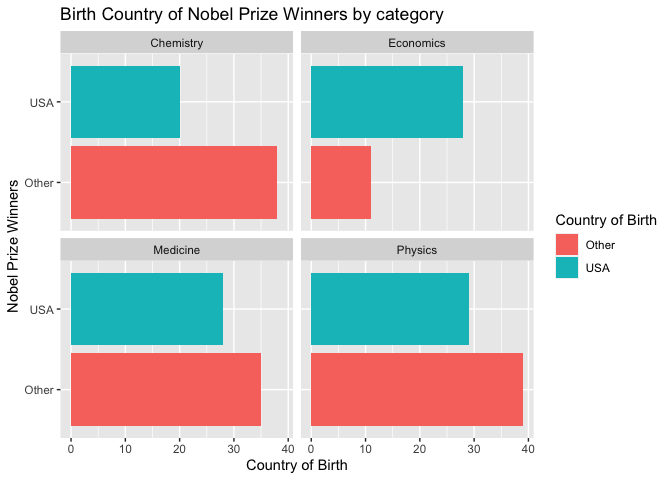
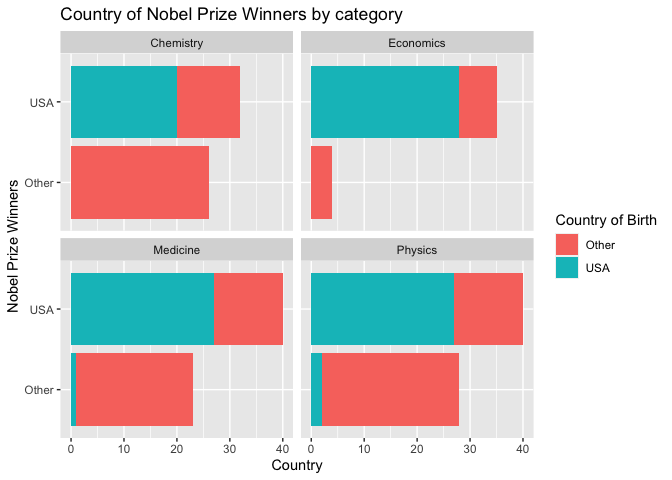
Updated graphs to show correct birth versus residence

diff --git a/lab-03.md b/lab-03.md
@@ -112,9 +112,13 @@ ggplot(nobel_living_science, aes(x = country_us, fill = country_us)) + geom_bar(
 nobel_living_science <- nobel_living %>%
   mutate(born_country_us = if_else(born_country == "USA", "USA", "Other")) 
 
-ggplot(nobel_living_science, aes(x = born_country_us, fill = born_country_us)) + geom_bar() + coord_flip() + labs( x = "Nobel Prize Winners", y = "Country of Birth", title = "Birth Country of Nobel Prize Winners by category", fill = "Country of Birth") + facet_wrap(~ category)
+#ggplot(nobel_living_science, aes(x = born_country_us, fill = born_country_us)) + geom_bar() + coord_flip() + labs( x = "Nobel Prize Winners", y = "Country of Birth", title = "Birth Country of Nobel Prize Winners by category", fill = "Country of Birth") + facet_wrap(~ category)
+
+ggplot(nobel_living_science, aes(x = country_us, fill = born_country_us)) + geom_bar() + coord_flip() + labs( x = "Nobel Prize Winners", y = "Country", title = "Country of Nobel Prize Winners by category", fill = "Country of Birth") + facet_wrap(~ category)
 ```
 
-![](lab-03_files/figure-gfm/born-in-the-USA-plus-vis-1.png)<!-- --> …
+![](lab-03_files/figure-gfm/born-in-the-USA-plus-vis-1.png)<!-- -->
+
+…
 
 ### Exercise 7
